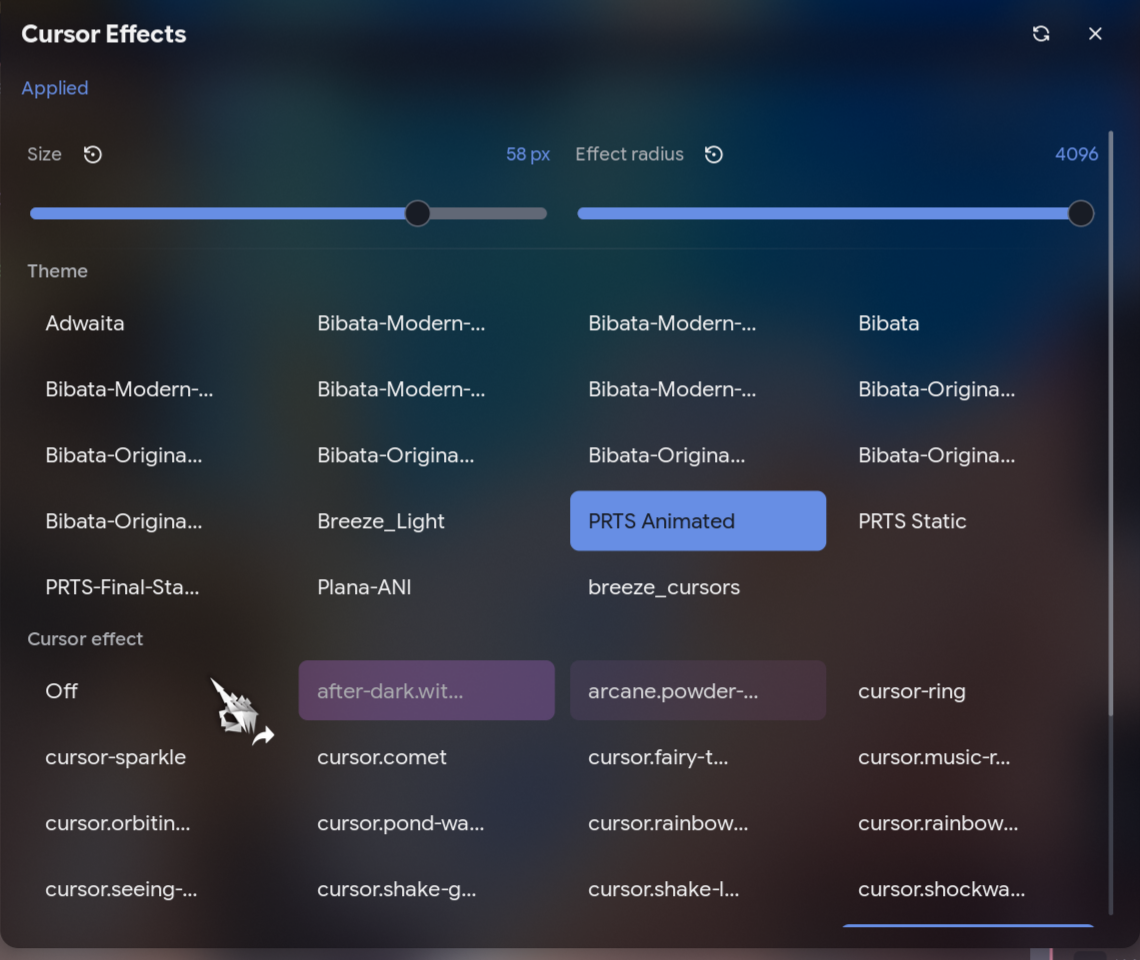
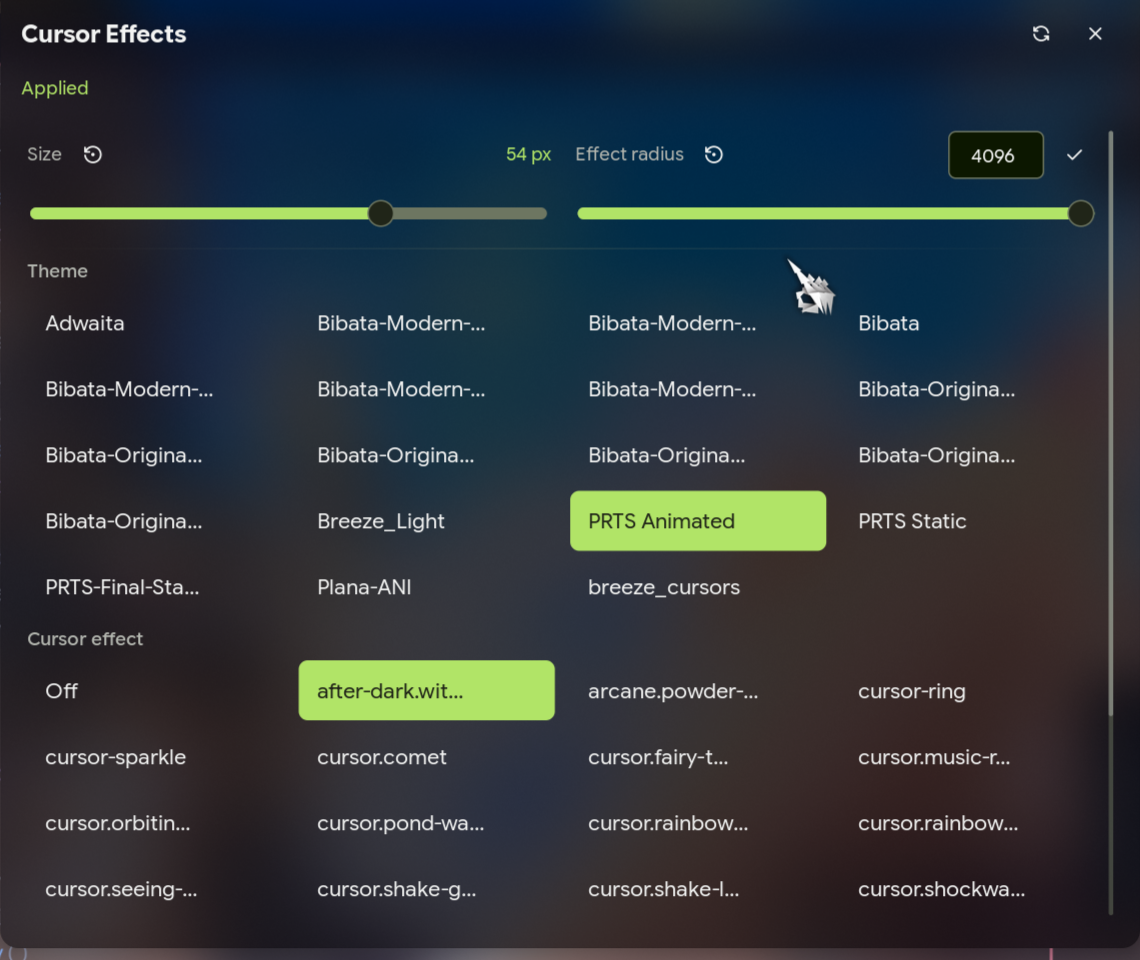
cursor-effects: add exact radius input and logarithmic slider
Typing a radius in the field (Enter or the check button) applies an exact value, while the slider now uses logarithmic spacing so the common 32-256 px range gets most of the track. Programmatic slider updates no longer drift the stored radius. On helper failure the panel reloads state from disk instead of showing a value that was not persisted.

diff --git a/cursor-effects/README.md b/cursor-effects/README.md
@@ -30,8 +30,9 @@ noctalia msg panel-toggle h465855hgg/cursor-effects:panel
 The panel shows:
 
 - **Size** — cursor size from 16 to 72 px; the restore button resets it to 24 px
-- **Effect radius** — radius from 32 to 4096 for the selected effect; the restore
-  button resets it to 96
+- **Effect radius** — radius from 32 to 4096 for the selected effect; drag the
+  logarithmic slider, type an exact value in the field (Enter or the check button),
+  or use the restore button for 96
 - **Theme** — every Xcursor theme found in `~/.local/share/icons`,
   `~/.icons` and `/usr/share/icons`
 - **Cursor effect** — every cursor shader preset found in
